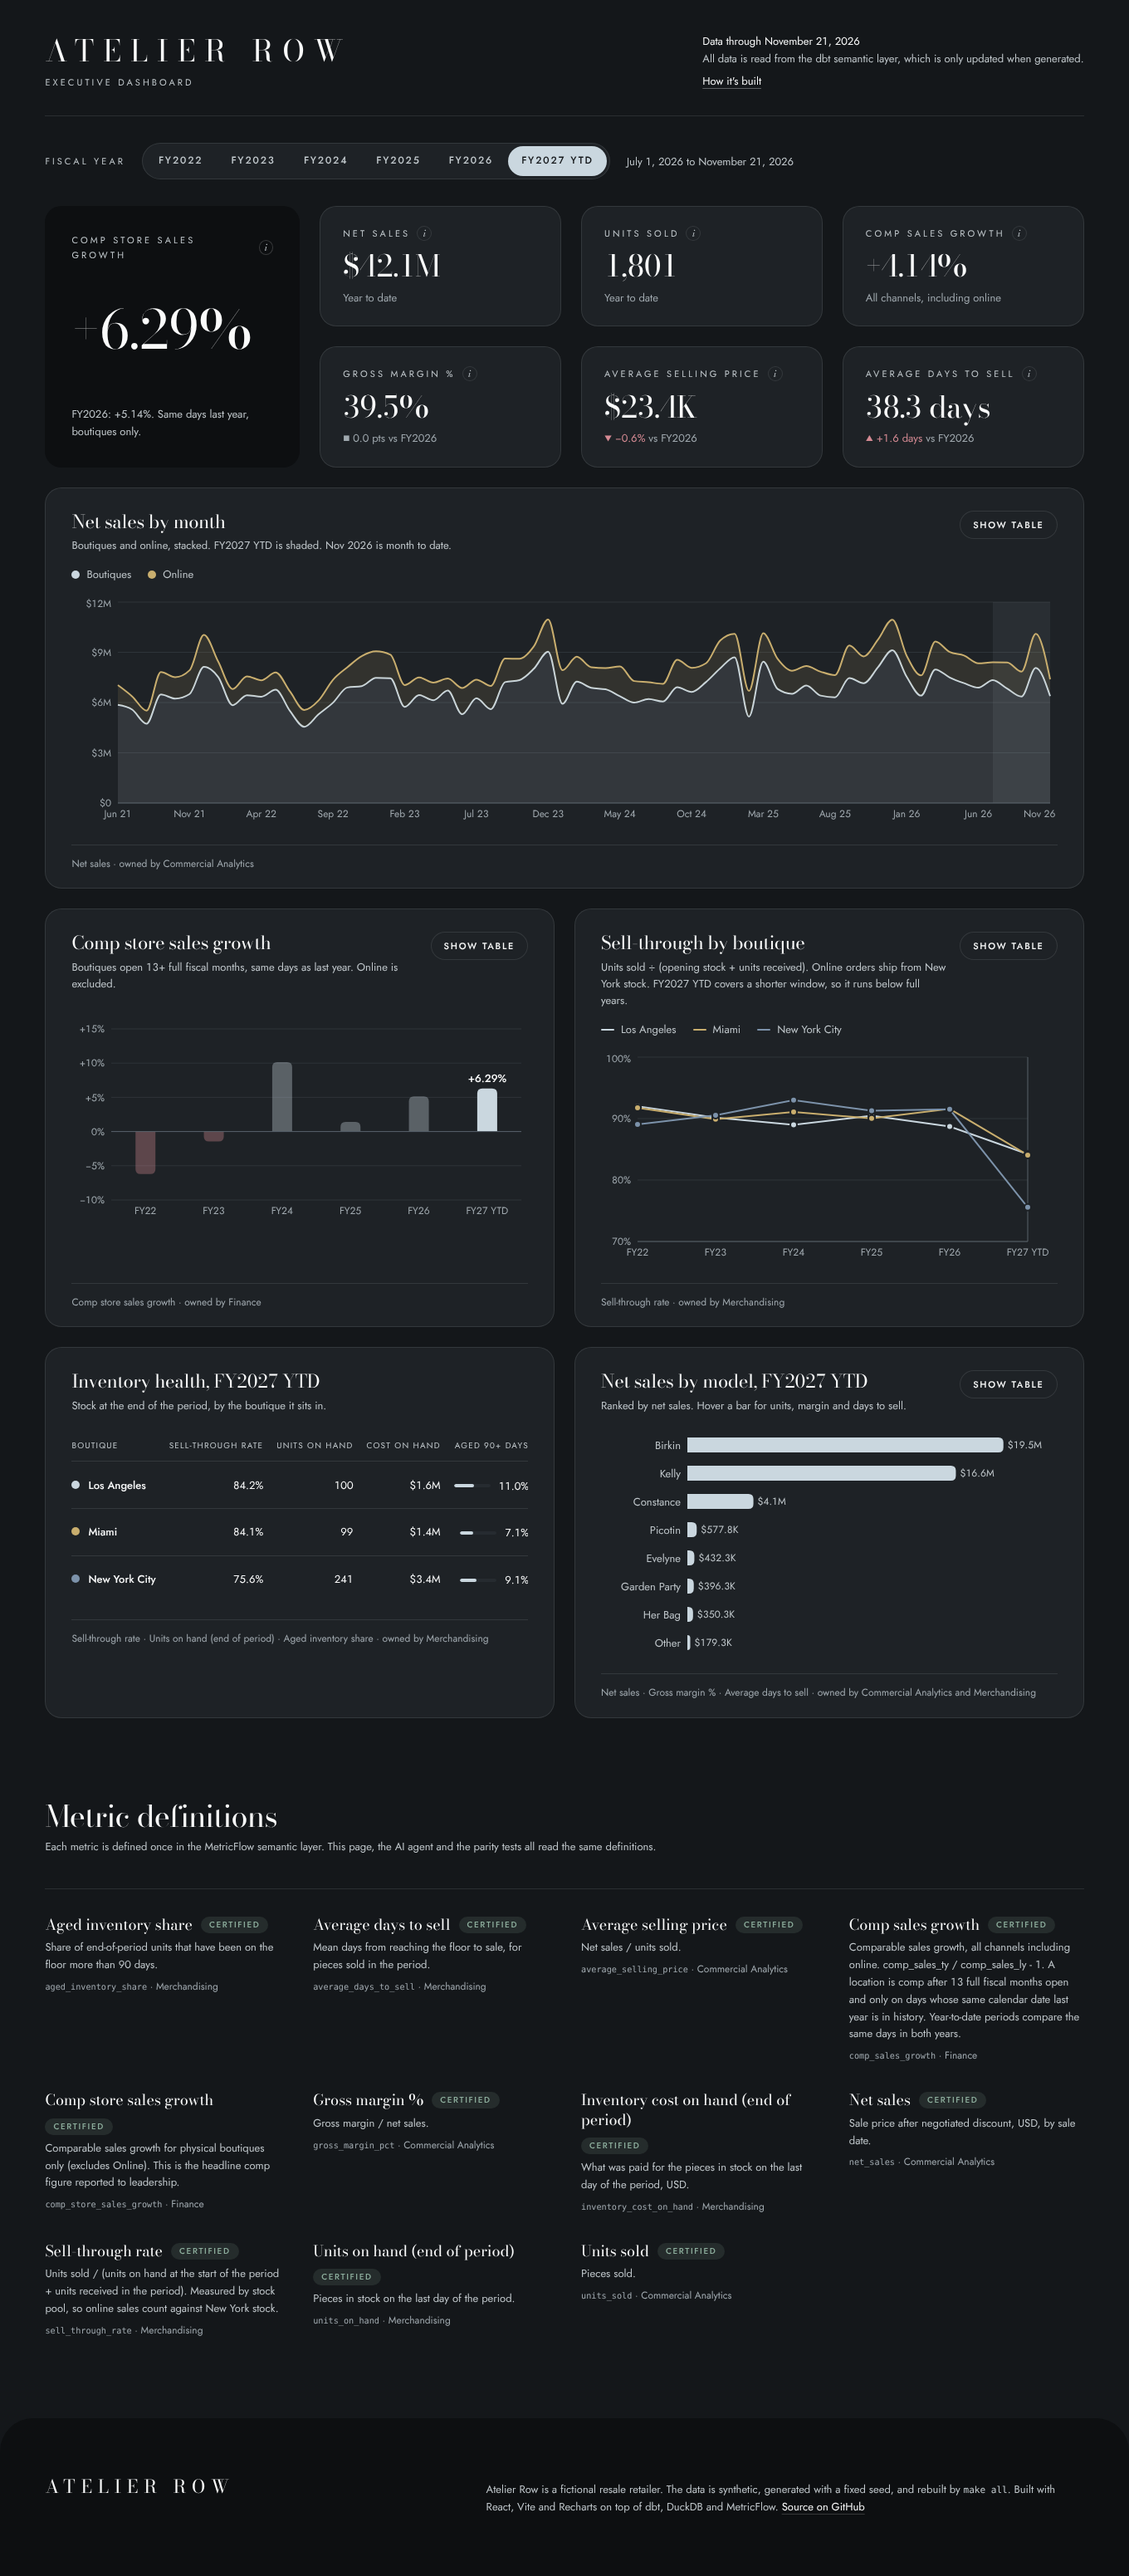
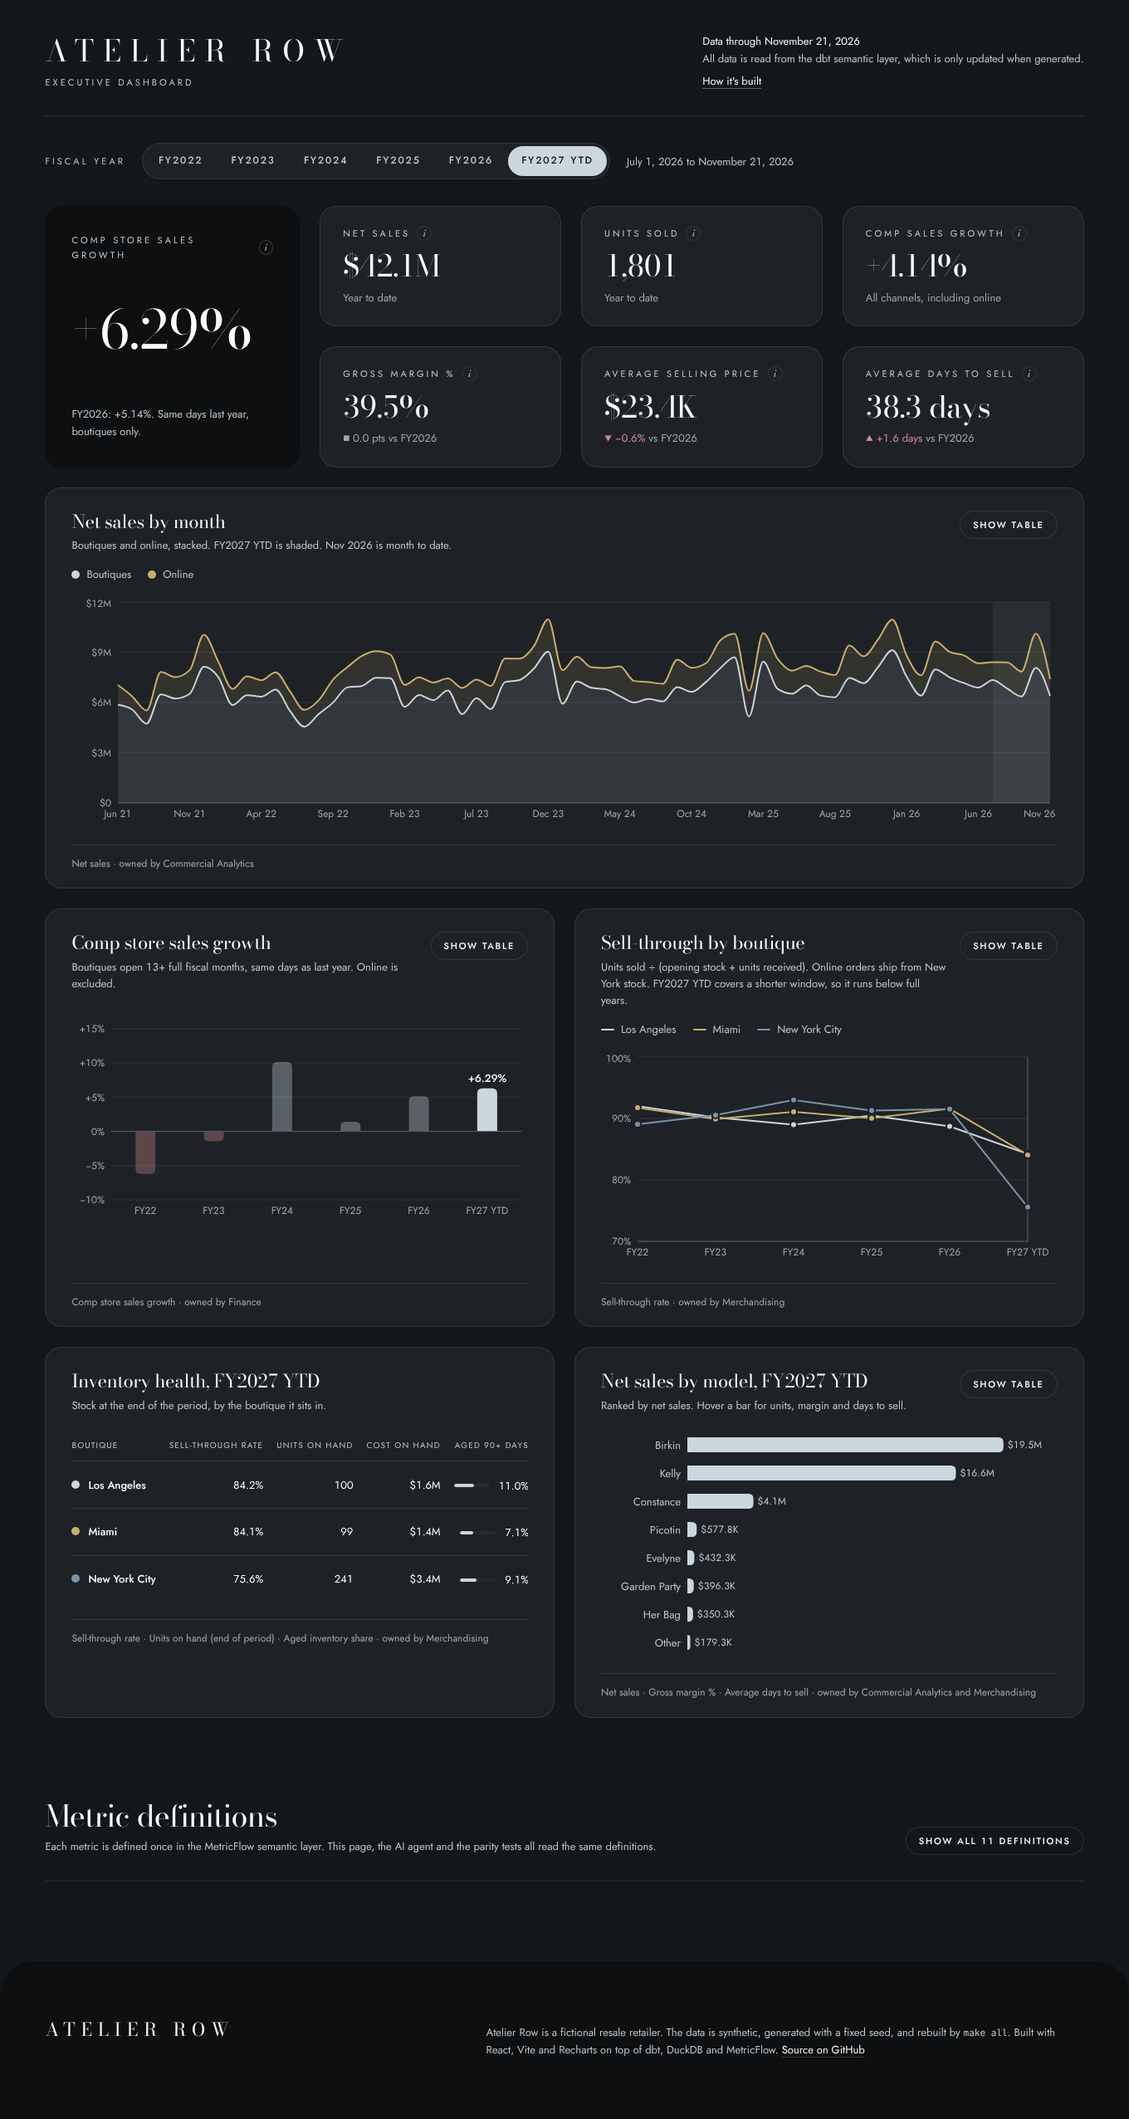
Collapse the metric definitions behind a show/hide button
The glossary now starts closed with a 'Show all 11 definitions' button, so
the definitions no longer take up the bottom of the page. Each tile's
definition popover is unchanged.

Claude-Session: https://claude.ai/code/session_011qHDeWGcV6XNCji4vg8PiQ

diff --git a/dashboard/src/components/MetricGlossary.tsx b/dashboard/src/components/MetricGlossary.tsx
@@ -1,16 +1,34 @@
+import { useState } from 'react'
 import { metrics } from '../data'
 
-/** Every metric on the page with its governed definition, straight from the semantic manifest. */
+/**
+ * Every metric on the page with its governed definition, straight from the semantic manifest.
+ * Collapsed by default so the definitions don't crowd the page; each tile's "i" still shows its own.
+ */
 export function MetricGlossary() {
+  const [open, setOpen] = useState(false)
   const entries = Object.entries(metrics).sort(([, a], [, b]) => a.label.localeCompare(b.label))
   return (
     <section className="glossary" aria-labelledby="glossary-title">
-      <h2 id="glossary-title">Metric definitions</h2>
-      <p className="card-subtitle">
-        Each metric is defined once in the MetricFlow semantic layer. This page, the AI agent and the parity tests
-        all read the same definitions.
-      </p>
-      <dl className="glossary-grid">
+      <header className="glossary-header">
+        <div>
+          <h2 id="glossary-title">Metric definitions</h2>
+          <p className="card-subtitle">
+            Each metric is defined once in the MetricFlow semantic layer. This page, the AI agent and the parity tests
+            all read the same definitions.
+          </p>
+        </div>
+        <button
+          type="button"
+          className="ghost-button"
+          aria-expanded={open}
+          aria-controls="glossary-list"
+          onClick={() => setOpen((v) => !v)}
+        >
+          {open ? 'Hide definitions' : `Show all ${entries.length} definitions`}
+        </button>
+      </header>
+      <dl id="glossary-list" className="glossary-grid" hidden={!open}>
         {entries.map(([name, m]) => (
           <div key={name} className="glossary-item">
             <dt>

diff --git a/dashboard/src/index.css b/dashboard/src/index.css
@@ -697,17 +697,29 @@ a:focus-visible {
   margin-top: 96px;
 }
 
-.glossary > h2 {
+.glossary-header {
+  display: flex;
+  flex-wrap: wrap;
+  align-items: flex-end;
+  justify-content: space-between;
+  gap: 16px 32px;
+  padding-bottom: 32px;
+  box-shadow: inset 0 -1px 0 var(--border-hairline);
+}
+
+.glossary h2 {
   font-size: 36px;
+}
+
+.glossary-grid[hidden] {
+  display: none;
 }
 
 .glossary-grid {
   display: grid;
   grid-template-columns: repeat(auto-fill, minmax(280px, 1fr));
   gap: 32px 40px;
-  margin: 40px 0 0;
-  padding-top: 32px;
-  box-shadow: inset 0 1px 0 var(--border-hairline);
+  margin: 32px 0 0;
 }
 
 .glossary-item dt {
